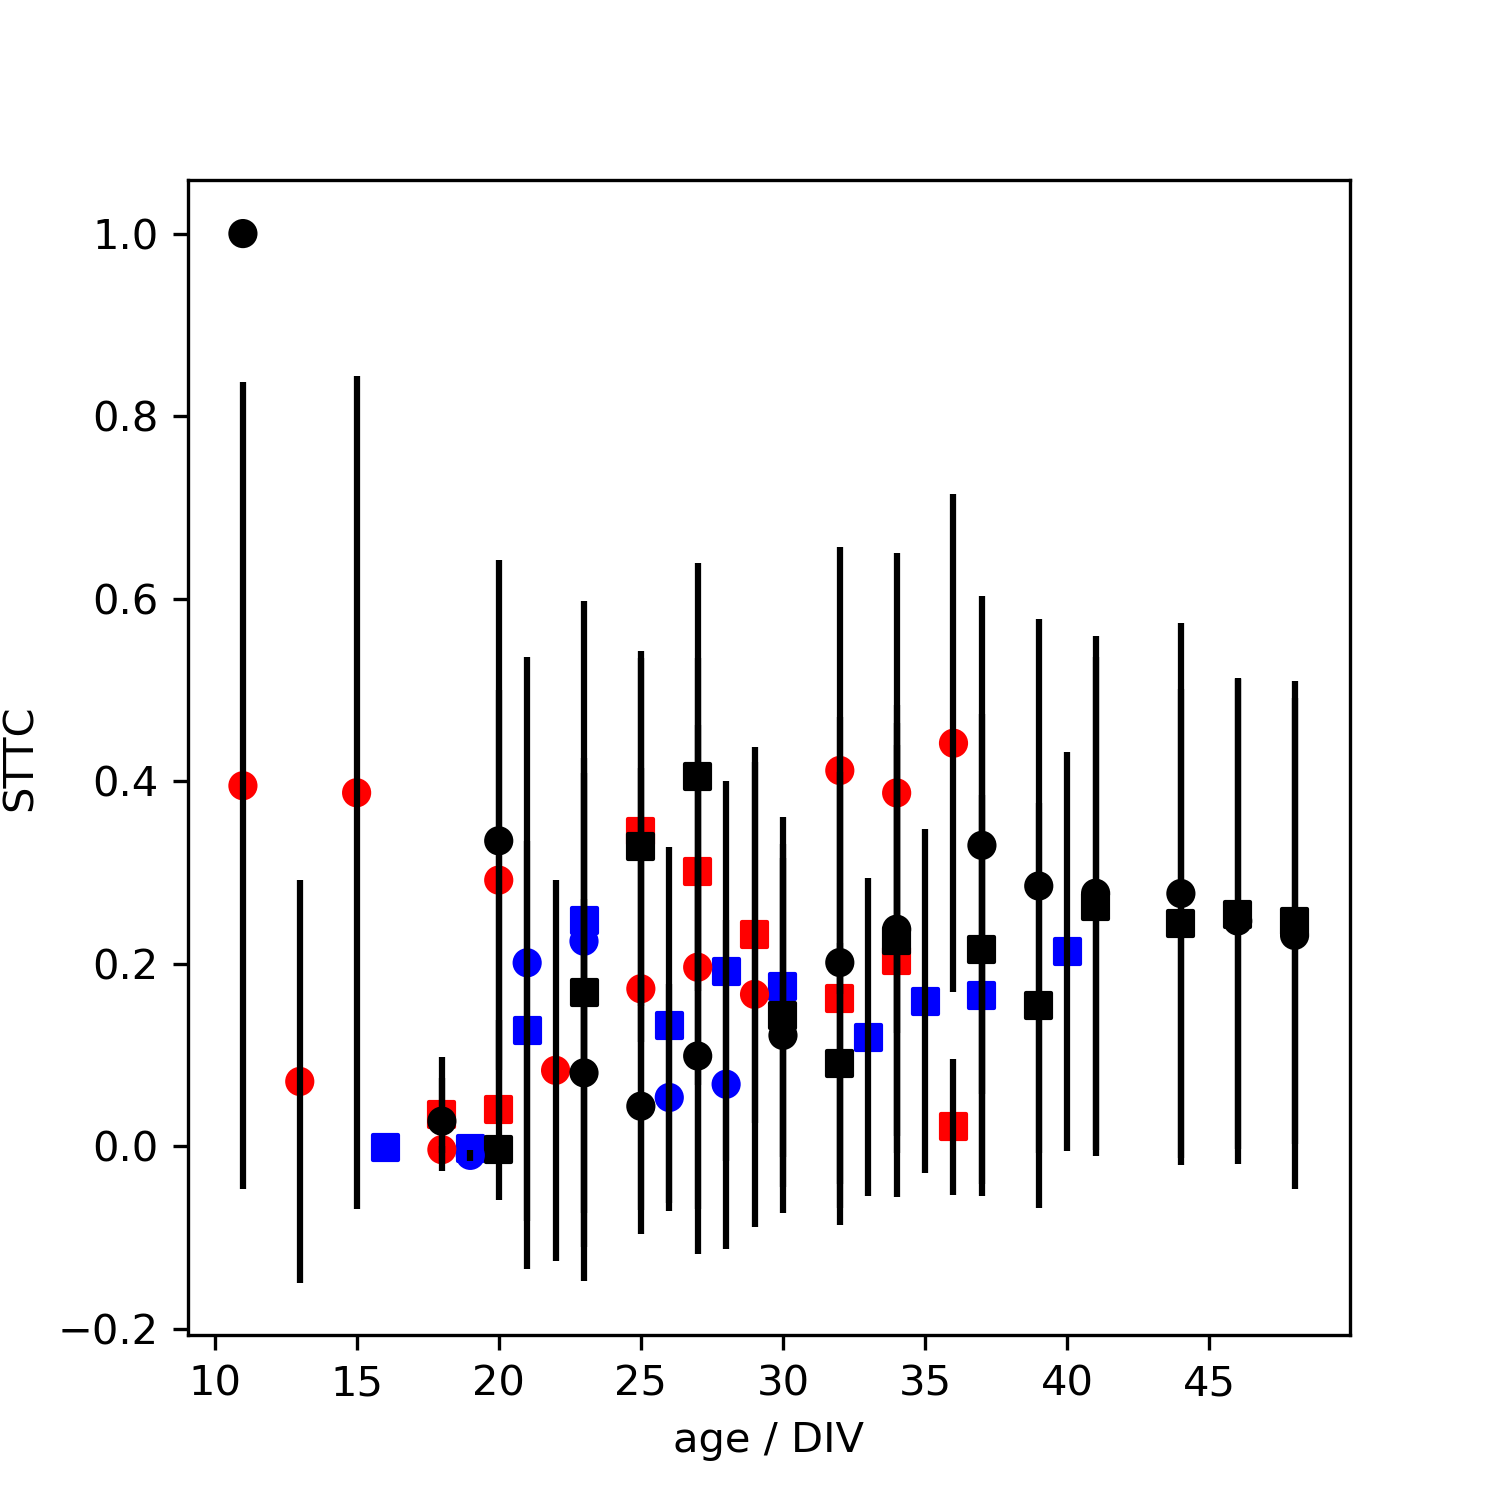
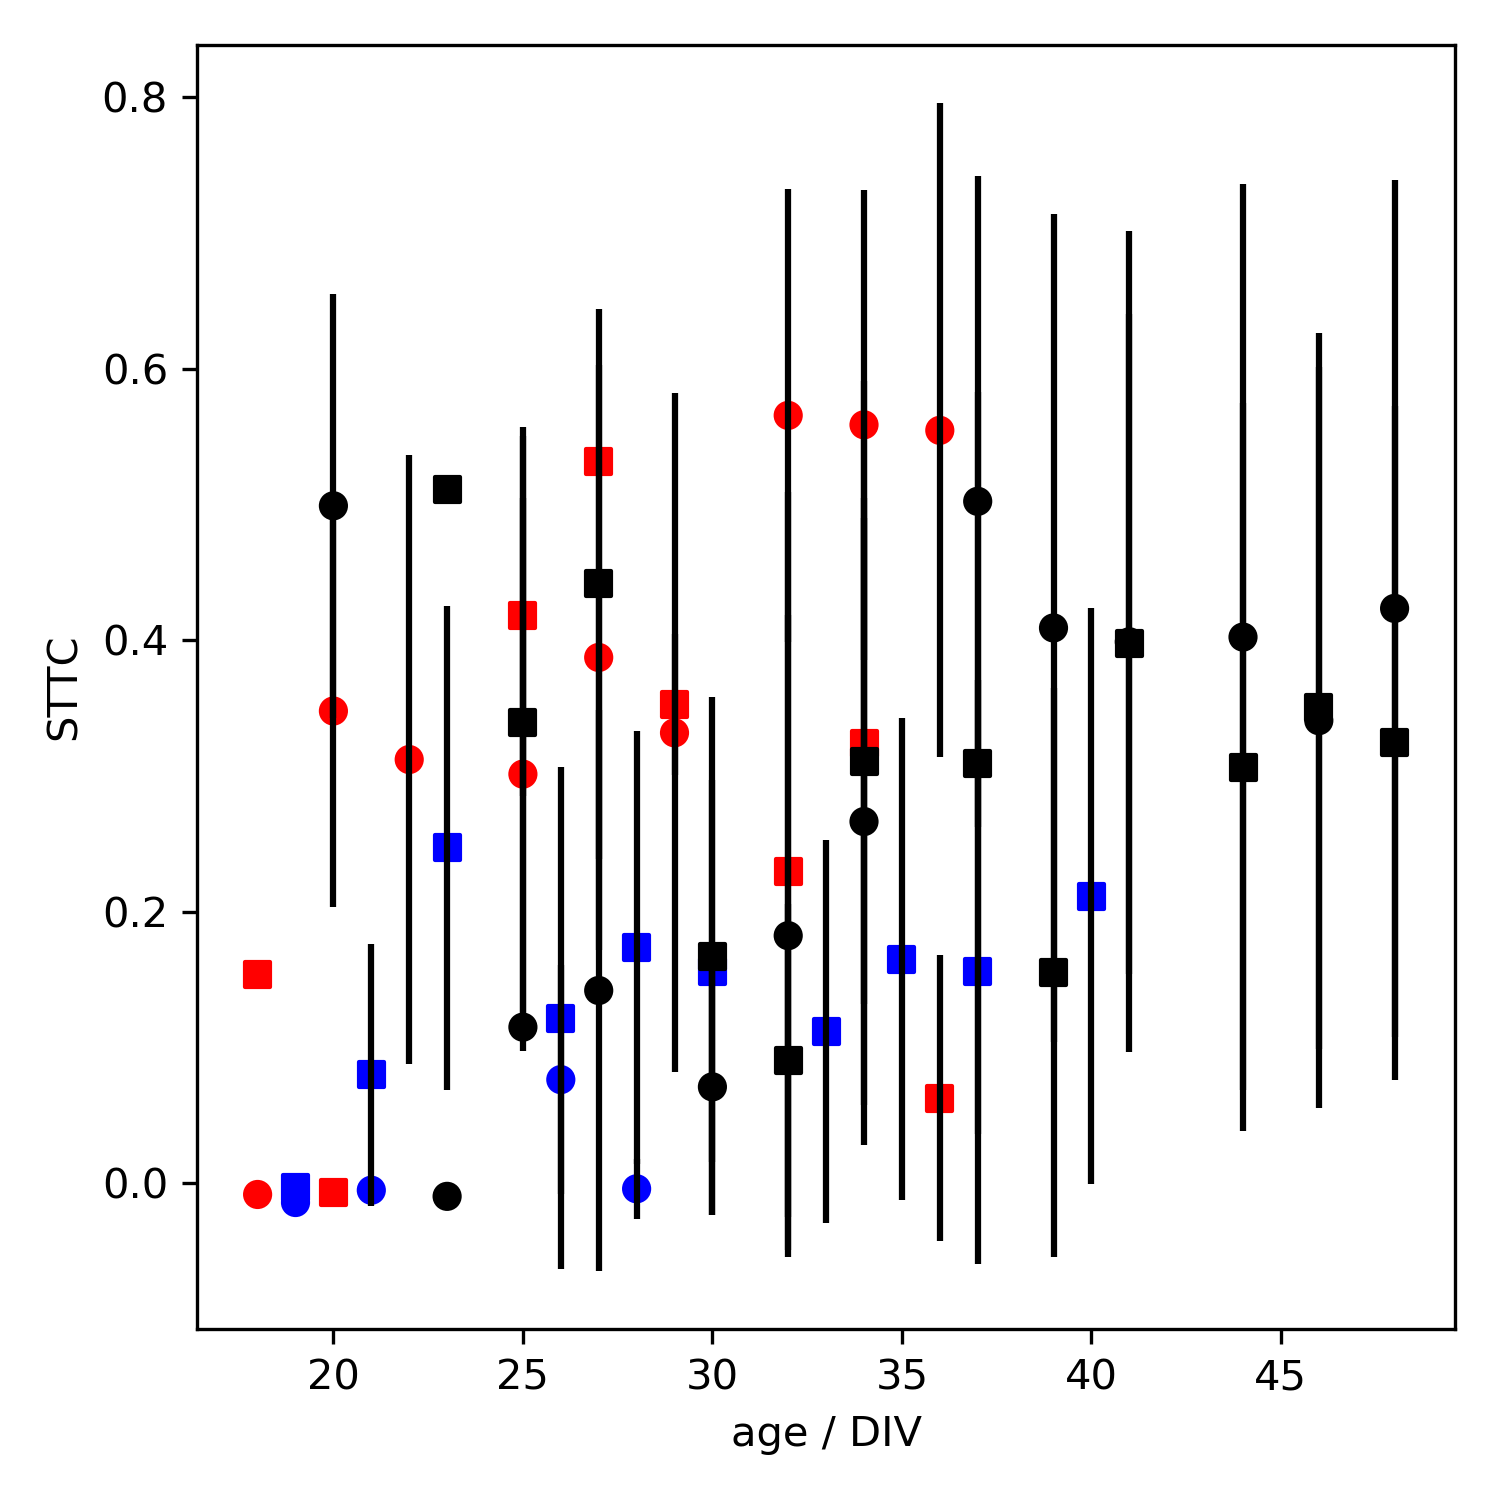
Randomise spike trains in correlation script as a control

diff --git a/scripts/correlate_pairwise.py b/scripts/correlate_pairwise.py
@@ -2,27 +2,29 @@ import datapackage
 import datetime
 import elephant
 import h5fd.plot
-import itertools
 import numpy
 import os
 import matplotlib
 import matplotlib.pyplot as plt
 import quantities as qt
 from h5fd.plot import RECORDING_ATTEMPTS
+from tqdm import tqdm
 
 DATA_DIR = "../data/2020-02-21_fd/"
 data_files = [os.path.join(DATA_DIR, file) for file in os.listdir(DATA_DIR)]
 
 # plotting parameters
 FIGURE_PATH = "../plots/correlation_plots.png"
+CONTROL_FIGURE_PATH = "../plots/correlation_plots_randomised.png"
 matplotlib.rcParams.update(matplotlib.rcParamsDefault)
 matplotlib.rcParams["figure.dpi"] = 300
 matplotlib.rcParams["figure.figsize"] = [5, 5]
 
 BINW = 0.5 * qt.s
 
-age_l, corr_l, colours, err_l = ({"2539": [], "2540": []} for i in range(4))
-for file in data_files:
+age_l, corr_l, surr_corr_l, colours, err_l, surr_err_l =\
+    ({"2539": [], "2540": []} for i in range(6))
+for file in tqdm(data_files):
     # extract data
     package = datapackage.Package(file)
     mea = package.descriptor["meta"]["MEA"]
@@ -30,9 +32,12 @@ for file in data_files:
     trains = list(channels.values())
     if len(trains) < 2:
         continue
+    surr_trains = [elephant.spike_train_surrogates.randomise_spikes(t)[0]
+                   for t in trains]
 
     # bin
     corr = numpy.zeros((len(trains), len(trains)))  # a square matrix
+    surr_corr = numpy.zeros((len(trains), len(trains)))
     for i in range(len(trains)):
         for j in range(len(trains)):
             coeff = \
@@ -42,6 +47,12 @@ for file in data_files:
                                               dt=0.05*qt.s)
             assert coeff <= 1, "STTC > 1"
             corr[i, j] = coeff
+            surr_coeff = \
+                elephant.spike_train_correlation.\
+                spike_time_tiling_coefficient(surr_trains[i],
+                                              surr_trains[j],
+                                              dt=0.05*qt.s)
+            surr_corr[i, j] = surr_coeff
     diag = numpy.diagonal(corr)
     assert (diag == numpy.ones(len(trains))).any()
 
@@ -50,10 +61,19 @@ for file in data_files:
     n = (corr.shape[0] * (corr.shape[1] - 1)) / 2
     mean_corr = numpy.sum(corr_triu) / n
     corr_l[mea].append(mean_corr)
-    # standard error in the mean
+    # standard deviation
     nonz = corr_triu.ravel()[numpy.flatnonzero(corr_triu)]
     err = numpy.std(nonz)
     err_l[mea].append(err)
+    # randomised trains
+    surr_corr_triu = numpy.triu(surr_corr, k=1)
+    surr_n = (surr_corr.shape[0] * (surr_corr.shape[1] - 1)) / 2
+    mean_surr_corr = numpy.sum(surr_corr_triu) / surr_n
+    surr_corr_l[mea].append(mean_surr_corr)
+    # standard deviation
+    surr_nonz = surr_corr_triu.ravel()[numpy.flatnonzero(surr_corr_triu)]
+    surr_err = numpy.std(surr_nonz)
+    surr_err_l[mea].append(surr_err)
     # extract age
     age = int(package.descriptor["meta"]["age"])
     age_l[mea].append(age)
@@ -75,6 +95,23 @@ axes.set_xlabel("age / DIV")
 axes.set_ylabel("STTC")
 axes.scatter(age_l["2539"], corr_l["2539"], c=colours["2539"], marker="s")
 axes.scatter(age_l["2540"], corr_l["2540"], c=colours["2540"], marker="o")
-axes.errorbar(age_l["2539"], corr_l["2539"], fmt="none", yerr=err_l["2539"], ecolor="k")
-axes.errorbar(age_l["2540"], corr_l["2540"], fmt="none", yerr=err_l["2540"], ecolor="k")
+axes.errorbar(age_l["2539"], corr_l["2539"], fmt="none", yerr=err_l["2539"],
+              ecolor="k")
+axes.errorbar(age_l["2540"], corr_l["2540"], fmt="none", yerr=err_l["2540"],
+              ecolor="k")
+plt.tight_layout()
 plt.savefig(FIGURE_PATH)
+plt.close()
+
+figure, axes = plt.subplots()
+axes.set_xlabel("age / DIV")
+axes.set_ylabel("STTC")
+axes.scatter(age_l["2539"], surr_corr_l["2539"], c=colours["2539"], marker="s")
+axes.scatter(age_l["2540"], surr_corr_l["2540"], c=colours["2540"], marker="o")
+axes.errorbar(age_l["2539"], surr_corr_l["2539"], fmt="none",
+              yerr=surr_err_l["2539"], ecolor="k")
+axes.errorbar(age_l["2540"], surr_corr_l["2540"], fmt="none",
+              yerr=surr_err_l["2540"], ecolor="k")
+plt.tight_layout()
+plt.savefig(CONTROL_FIGURE_PATH)
+plt.close()
